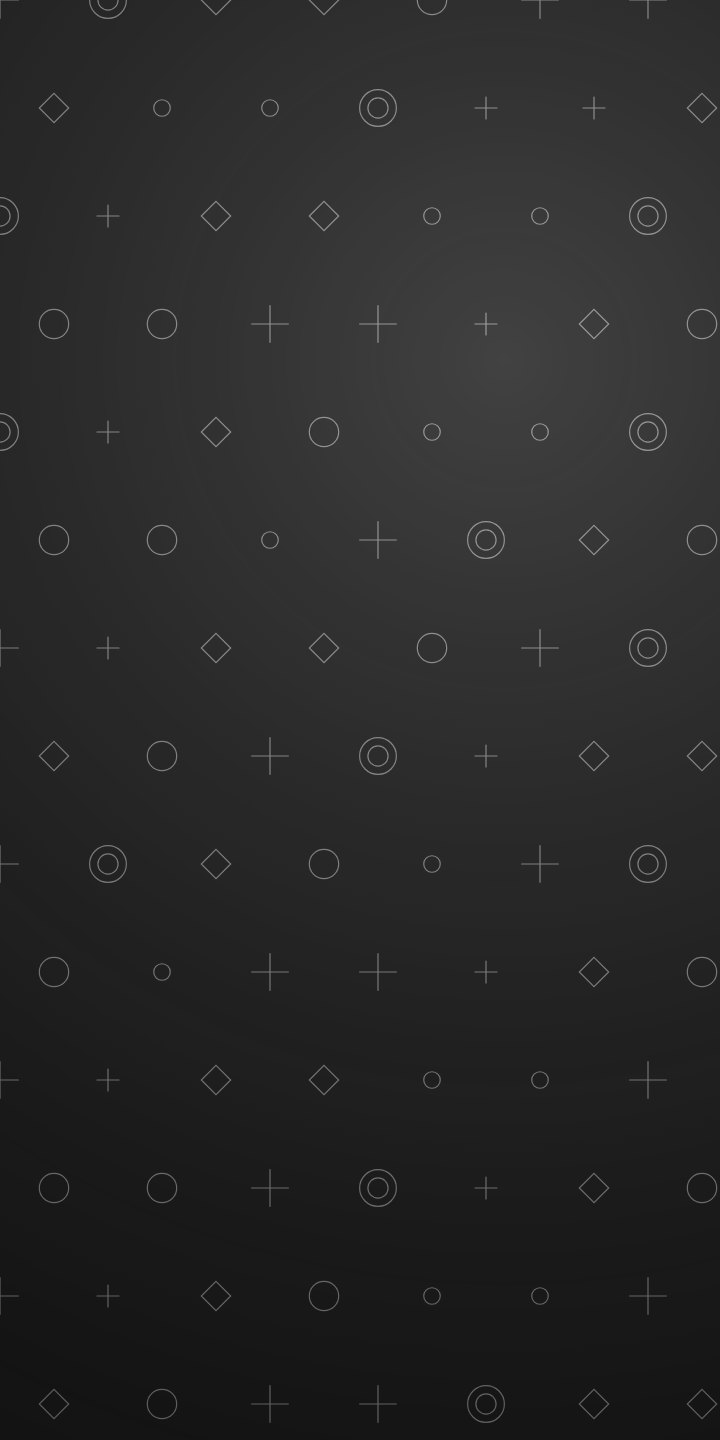
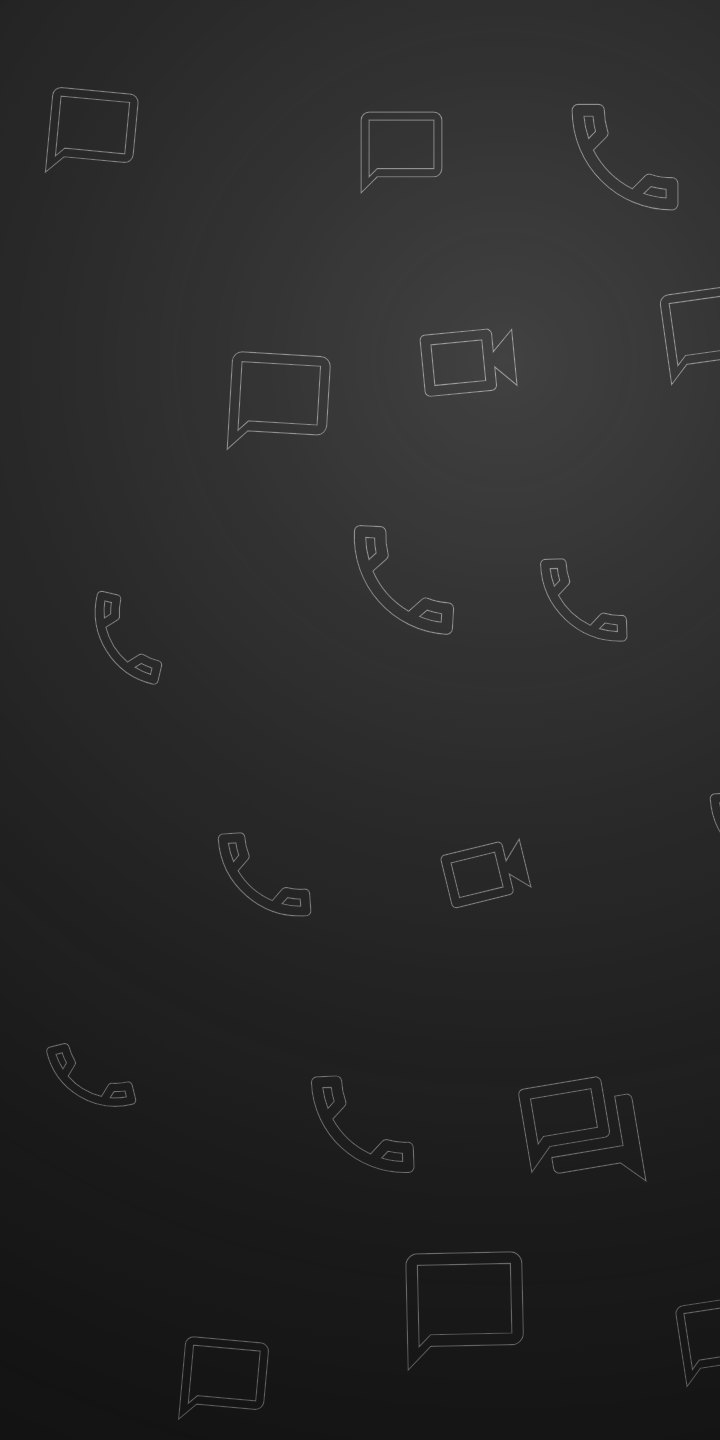
Обои для каждой плитки со своими значками (тренировки, статистика, задания, спортсмены, ИИ-роботы, заметки, мессенджер: чат/видео/звонок, диск: облако); в глубине настроек общие

diff --git a/tool/gen_wallpapers_painter.dart b/tool/gen_wallpapers_painter.dart
@@ -108,14 +108,32 @@ class WallpaperPainter extends CustomPainter {
     final w = s.width, h = s.height;
     final slit = math.max(1.1, w * 0.0021);
     switch (kind) {
-      case 'settings':
+      case 'settings': // в глубине настроек: робот, заметки, настройки и др. вперемешку
         _rings(canvas, Offset(w / 2, 0), s, List.generate(10, (i) => i + 2), slit);
-        _icons(canvas, s, slit, 7);
+        _icons(canvas, s, slit, 7, _mixIcons);
       case 'ai':
         _rings(canvas, Offset(w / 2, h * 0.22), s, List.generate(7, (i) => i + 1), slit * 1.2);
-        _icons(canvas, s, slit, 11);
+        _icons(canvas, s, slit, 11, _aiIcons);
       case 'messenger':
-        _pattern(canvas, s, slit);
+        _icons(canvas, s, slit, 5, _chatIcons);
+      case 'exercises':
+        _rings(canvas, Offset(w / 2, 0), s, List.generate(8, (i) => i + 2), slit);
+        _icons(canvas, s, slit, 21, _trainIcons);
+      case 'statistics':
+        _rings(canvas, Offset(w / 2, 0), s, List.generate(8, (i) => i + 2), slit);
+        _icons(canvas, s, slit, 22, _statIcons);
+      case 'tasks':
+        _rings(canvas, Offset(w / 2, 0), s, List.generate(8, (i) => i + 2), slit);
+        _icons(canvas, s, slit, 23, _taskIcons);
+      case 'athletes':
+        _rings(canvas, Offset(w / 2, 0), s, List.generate(8, (i) => i + 2), slit);
+        _icons(canvas, s, slit, 24, _peopleIcons);
+      case 'notes':
+        _rings(canvas, Offset(w / 2, 0), s, List.generate(8, (i) => i + 2), slit);
+        _icons(canvas, s, slit, 25, _noteIcons);
+      case 'drive':
+        _rings(canvas, Offset(w / 2, 0), s, List.generate(8, (i) => i + 2), slit);
+        _icons(canvas, s, slit, 26, _driveIcons);
       case 'champions':
         _rings(canvas, Offset(w / 2, h * 0.36), s, List.generate(7, (i) => i + 2), slit * 0.9);
         _trophy(canvas, s, slit * 1.6);
@@ -127,24 +145,32 @@ class WallpaperPainter extends CustomPainter {
     }
   }
 
-  static const _tileIcons = [
+  static const _mixIcons = [
     Icons.gps_fixed,
     Icons.bar_chart,
     Icons.menu_book,
     Icons.chat_bubble_outline,
     Icons.smart_toy_outlined,
     Icons.settings_outlined,
-    Icons.emoji_events_outlined,
+    Icons.sticky_note_2_outlined,
     Icons.timer_outlined,
   ];
+  static const _aiIcons = [Icons.smart_toy_outlined, Icons.auto_awesome, Icons.psychology_outlined, Icons.lightbulb_outline];
+  static const _chatIcons = [Icons.chat_bubble_outline, Icons.videocam_outlined, Icons.call_outlined, Icons.forum_outlined];
+  static const _noteIcons = [Icons.sticky_note_2_outlined, Icons.edit_note, Icons.description_outlined, Icons.push_pin_outlined];
+  static const _driveIcons = [Icons.cloud_outlined, Icons.folder_open_outlined, Icons.cloud_upload_outlined, Icons.insert_drive_file_outlined, Icons.sync];
+  static const _trainIcons = [Icons.fitness_center, Icons.gps_fixed, Icons.timer_outlined, Icons.flag_outlined, Icons.track_changes];
+  static const _statIcons = [Icons.bar_chart, Icons.show_chart, Icons.pie_chart_outline, Icons.trending_up, Icons.analytics_outlined];
+  static const _taskIcons = [Icons.assignment_outlined, Icons.checklist, Icons.task_alt, Icons.event_note_outlined];
+  static const _peopleIcons = [Icons.groups_outlined, Icons.person_outline, Icons.emoji_people, Icons.military_tech_outlined];
 
   /// Прорези в виде значков кнопок главного экрана: контуры глифов, редкая сетка с разбросом и поворотом.
-  void _icons(Canvas canvas, Size s, double slit, int seed) {
+  void _icons(Canvas canvas, Size s, double slit, int seed, List<IconData> icons) {
     final cell = s.width * 0.34;
     final rnd = math.Random(seed);
     for (var row = 0; row < s.height / cell + 1; row++) {
       for (var c = 0; c < s.width / cell + 1; c++) {
-        final icon = _tileIcons[rnd.nextInt(_tileIcons.length)];
+        final icon = icons[rnd.nextInt(icons.length)];
         final size = cell * (0.38 + rnd.nextDouble() * 0.2);
         final pos = Offset((c + 0.5 + (row.isOdd ? 0.5 : 0) + (rnd.nextDouble() - 0.5) * 0.3) * cell, (row + 0.5 + (rnd.nextDouble() - 0.5) * 0.3) * cell);
         final tp = TextPainter(
@@ -167,39 +193,6 @@ class WallpaperPainter extends CustomPainter {
         canvas.rotate((rnd.nextDouble() - 0.5) * 0.5);
         tp.paint(canvas, Offset(-tp.width / 2, -tp.height / 2));
         canvas.restore();
-      }
-    }
-  }
-
-  /// Узор мессенджера: мишени, прицелы, ромбы и кольца в шахматном порядке.
-  void _pattern(Canvas canvas, Size s, double slit) {
-    final cell = s.width * 0.15;
-    final u = cell * 0.17;
-    final p = _slit(math.max(1.0, slit * 0.8));
-    final rnd = math.Random(3);
-    for (var row = 0; row < s.height / cell + 2; row++) {
-      for (var c = 0; c < s.width / cell + 2; c++) {
-        final x = c * cell + (row.isOdd ? cell / 2 : 0);
-        final y = row * cell;
-        final k = (row * 3 + c * 5 + rnd.nextInt(2)) % 6;
-        switch (k) {
-          case 0:
-            canvas.drawCircle(Offset(x, y), u, p);
-            canvas.drawCircle(Offset(x, y), u * 0.55, p);
-          case 1:
-            canvas.drawLine(Offset(x - u, y), Offset(x + u, y), p);
-            canvas.drawLine(Offset(x, y - u), Offset(x, y + u), p);
-          case 2:
-            canvas.drawCircle(Offset(x, y), u * 0.45, p);
-          case 3:
-            canvas.drawCircle(Offset(x, y), u * 0.8, p);
-          case 4:
-            final r = u * 0.8;
-            canvas.drawPath(Path()..moveTo(x, y - r)..lineTo(x + r, y)..lineTo(x, y + r)..lineTo(x - r, y)..close(), p);
-          default:
-            canvas.drawLine(Offset(x - u * 0.6, y), Offset(x + u * 0.6, y), p);
-            canvas.drawLine(Offset(x, y - u * 0.6), Offset(x, y + u * 0.6), p);
-        }
       }
     }
   }

diff --git a/lib/widgets/tile_backdrop.dart b/lib/widgets/tile_backdrop.dart
@@ -2,19 +2,36 @@ import 'package:flutter/material.dart';
 
 import 'app_backdrop.dart';
 
-/// Страница раздела, открытая с плитки главного экрана: обои (те же, что у
-/// настроек: по теме и платформе). Значка плитки на фоне нет — у разделов он и так
+/// Страница раздела, открытая с плитки главного экрана: обои этого раздела (по теме). Значка плитки на фоне нет — у разделов он и так
 /// есть. Сам экран раздела прозрачный поверх обоев.
 class TileBackdropPage extends StatelessWidget {
   final IconData icon;
   final Widget child;
-  const TileBackdropPage({super.key, required this.icon, required this.child});
+
+  /// id плитки главного экрана: у каждой свои обои (значки по теме раздела).
+  final String? id;
+  const TileBackdropPage({super.key, required this.icon, required this.child, this.id});
+
+  static const _kinds = {
+    'exercises': 'exercises',
+    'statistics': 'statistics',
+    'tasks': 'tasks',
+    'athletes': 'athletes',
+    'assistant': 'ai',
+    'notes': 'notes',
+    'finals': 'finals',
+    'messenger': 'messenger',
+    'drive': 'drive',
+  };
+
+  /// Остальные плитки (сервисы, настройки) — общие обои с робота, заметок и настроек.
+  static String kindFor(String? id) => _kinds[id] ?? 'settings';
 
   @override
   Widget build(BuildContext context) {
     final theme = Theme.of(context);
     return AppBackdrop(
-      kind: 'settings',
+      kind: kindFor(id),
       // раздел поверх обоев — с прозрачным фоном экрана
       child: Theme(
         data: theme.copyWith(scaffoldBackgroundColor: Colors.transparent),

diff --git a/test/tile_wallpaper_kind_test.dart b/test/tile_wallpaper_kind_test.dart
@@ -1,0 +1,21 @@
+import 'dart:io';
+
+import 'package:flutter_test/flutter_test.dart';
+import 'package:shooting_app/widgets/tile_backdrop.dart';
+
+void main() {
+  test('у каждой плитки свои обои, остальные — общие; все картинки на месте', () {
+    expect(TileBackdropPage.kindFor('assistant'), 'ai');
+    expect(TileBackdropPage.kindFor('notes'), 'notes');
+    expect(TileBackdropPage.kindFor('drive'), 'drive');
+    expect(TileBackdropPage.kindFor('service_x'), 'settings');
+    expect(TileBackdropPage.kindFor(null), 'settings');
+    for (final k in ['exercises', 'statistics', 'tasks', 'athletes', 'ai', 'notes', 'finals', 'messenger', 'drive', 'settings']) {
+      final kind = TileBackdropPage.kindFor(k == 'ai' ? 'assistant' : k);
+      for (final t in ['dark', 'light']) {
+        expect(File('assets/wall/${kind}_$t.jpg').existsSync(), isTrue, reason: '$kind $t');
+        expect(File('assets/wall/${kind}_${t}_b.jpg').existsSync(), isTrue, reason: '$kind $t blur');
+      }
+    }
+  });
+}

diff --git a/lib/screens/home_shell.dart b/lib/screens/home_shell.dart
@@ -179,7 +179,7 @@ class _HomeShellState extends State<HomeShell> {
                       final icon = specs[id]?.icon;
                       final page = icon == null
                           ? _pageFor(id, store, tabs)
-                          : TileBackdropPage(icon: icon, child: _pageFor(id, store, tabs));
+                          : TileBackdropPage(id: id, icon: icon, child: _pageFor(id, store, tabs));
                       final from = TileOpen.rect;
                       if (AnimSettings.enabled && AnimSettings.type == AnimType.morph && icon != null && from != null) {
                         Navigator.of(context).push(MorphRoute(page: page, icon: icon, from: from));

diff --git a/tool/gen_wallpapers_test.dart b/tool/gen_wallpapers_test.dart
@@ -42,7 +42,7 @@ void main() {
     final loader = FontLoader('MaterialIcons')..addFont(Future.value(ByteData.sublistView(bytes)));
     await loader.load();
     await Future(() async {
-      for (final k in ['home', 'settings', 'ai', 'messenger', 'champions', 'finals']) {
+      for (final k in ['home', 'settings', 'ai', 'messenger', 'champions', 'finals', 'exercises', 'statistics', 'tasks', 'athletes', 'notes', 'drive']) {
         for (final d in [true, false]) {
           for (final b in [false, true]) {
             await render(k, d, b);
